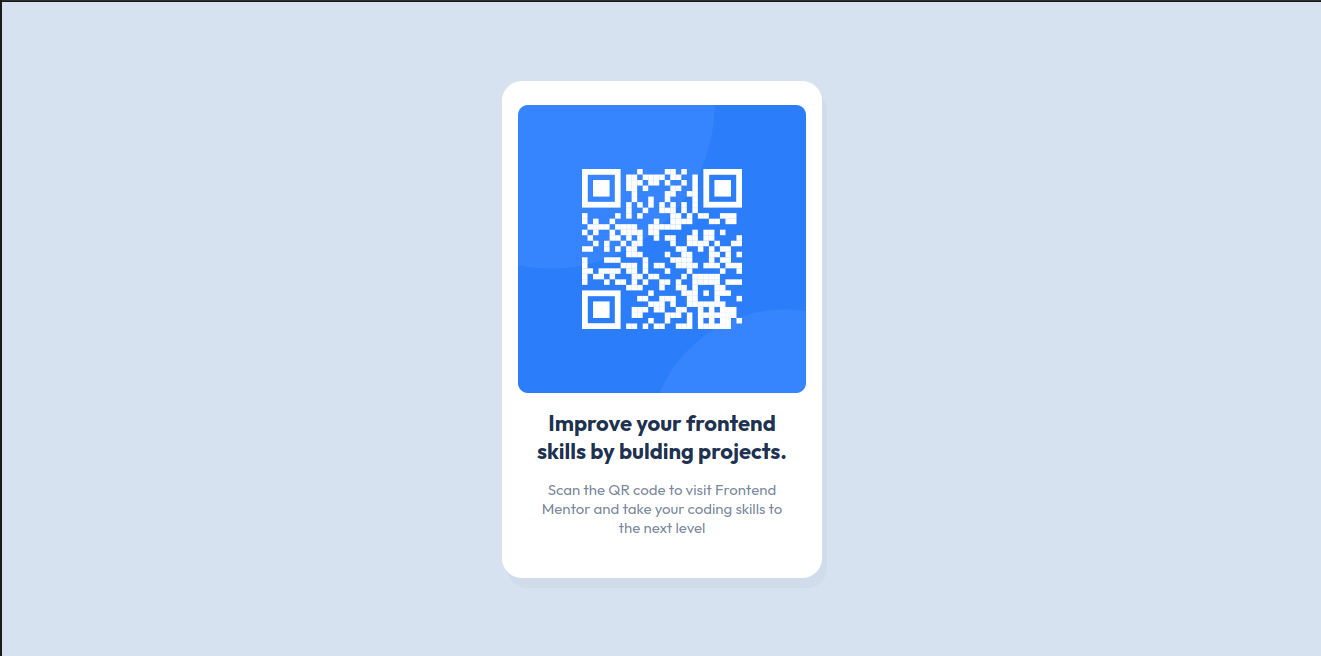
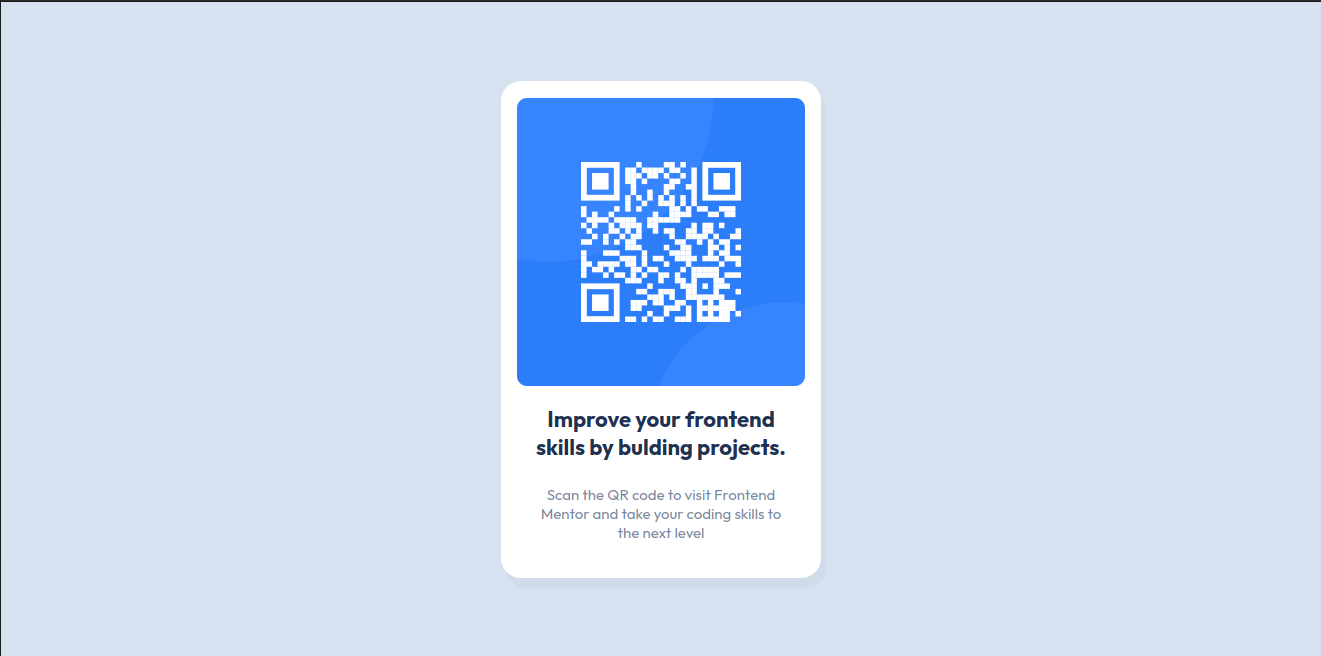
modified index.html, style.css and README.md

diff --git a/index.html b/index.html
@@ -9,7 +9,7 @@
   
   <title>Frontend Mentor | QR code component</title>
 </head>
-<body aria-label="Html body">  
+<body>  
   <!-- <header class="attribution" aria-label="About the developer">
     Challenge by <a href="https://www.frontendmentor.io?ref=challenge" target="_blank">Frontend Mentor</a>. 
     Coded by <a href="https://www.frontendmentor.io/profile/ababaug">Augustine Stephen Abah</a>.
@@ -17,10 +17,10 @@
   </header> -->
   
   <main aria-label="Content page"  class="container">
-    <div aria-label="image container" class="qr-image">
+    <div class="qr-image">
       <img aria-label="QR code that redirects to frontend mentor site" src="images/image-qr-code.png" alt="">
     </div>
-    <div aria-label="text content" class="qr-content" role="contentinfo">
+    <div class="qr-content" role="contentinfo">
       <h2>
         Improve your frontend skills by bulding projects.
       </h2>

diff --git a/style.css b/style.css
@@ -31,6 +31,7 @@ body {
     border-radius: 20px;
     box-shadow: 5px 10px #12041407;
     align-content: center;
+    
 }
 
 .qr-image {
@@ -46,13 +47,13 @@ body {
 
 .qr-content {
     width: 288px;
-    padding: 16px;
+    padding: 19px;
     text-align: center;
 }
 
 .qr-content h2 {
     font-size: 22px;
-    margin-bottom: 15px;
+    margin-bottom: 24px;
     color: hsl(218, 44%, 22%);
 }
 
